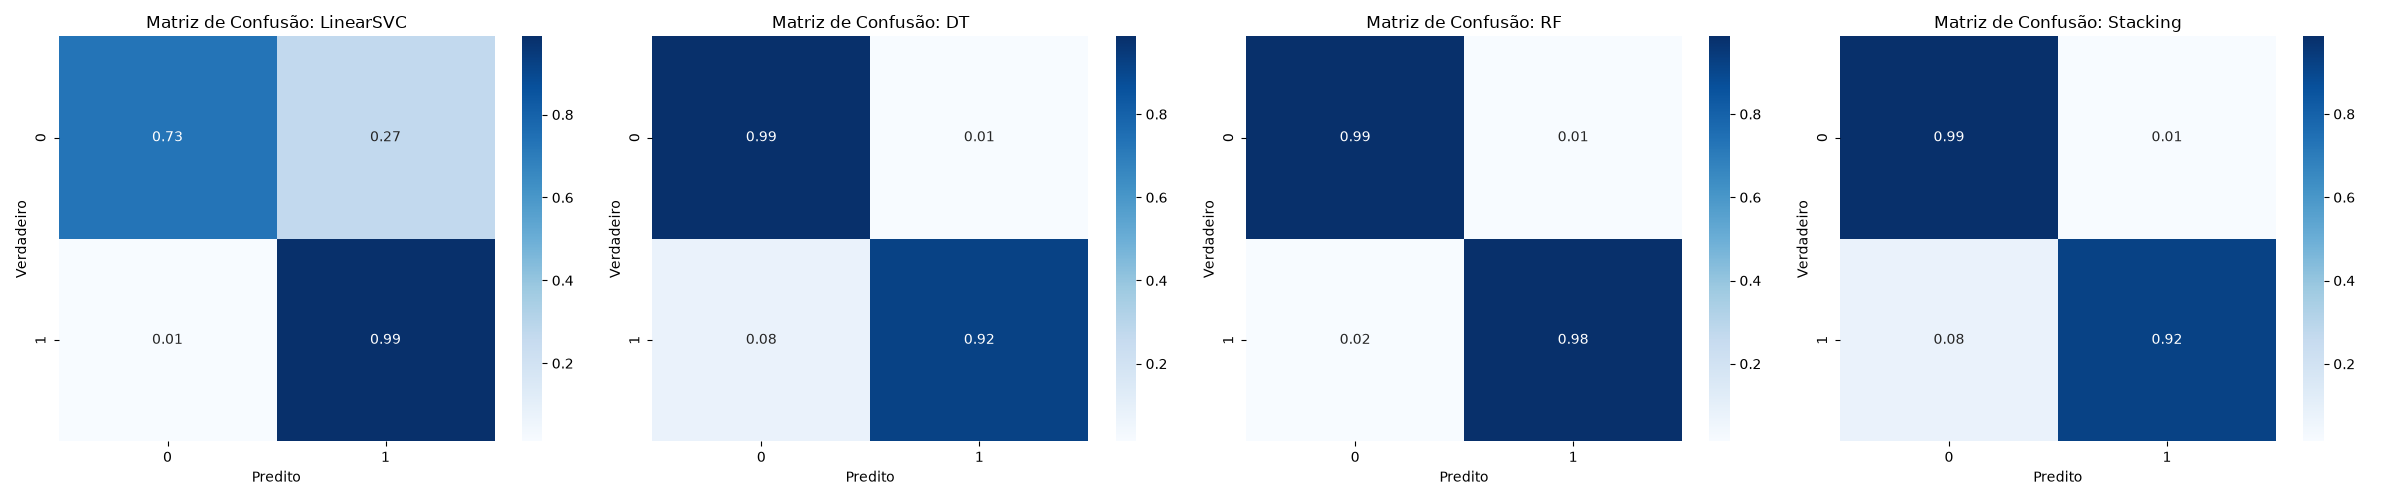
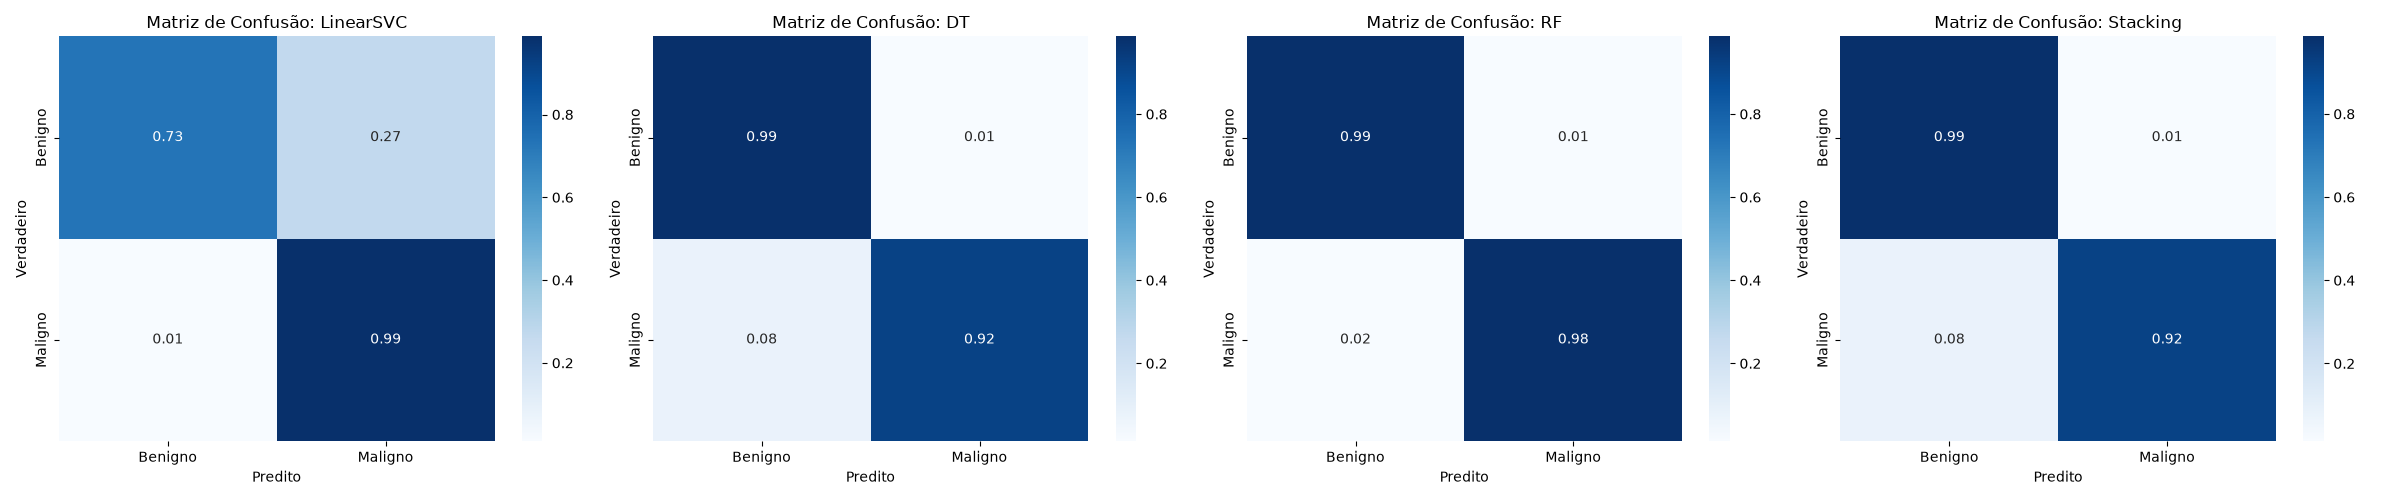
docs: adicionar dicionário de colunas ao README e atualizar rótulos da matriz de confusão binária

diff --git a/src/evaluation.py b/src/evaluation.py
@@ -126,6 +126,12 @@ def plot_confusion_matrices(y_true, predictions, classes, save_path):
     models = list(predictions.keys())
     n_models = len(models)
     
+    # Se os rótulos forem 0 e 1 (classificação binária), substitui pelos nomes das categorias
+    if len(classes) == 2 and set(classes) == {0, 1}:
+        display_classes = ['Benigno', 'Maligno']
+    else:
+        display_classes = classes
+    
     fig, axes = plt.subplots(1, n_models, figsize=(6 * n_models, 5))
     
     # Se houver apenas 1 modelo, axes não é um array, então colocamos numa lista
@@ -135,7 +141,7 @@ def plot_confusion_matrices(y_true, predictions, classes, save_path):
     for i, model in enumerate(models):
         cm = confusion_matrix(y_true, predictions[model], normalize='true')
         sns.heatmap(cm, annot=True, fmt='.2f', cmap='Blues', ax=axes[i], 
-                    xticklabels=classes, yticklabels=classes)
+                    xticklabels=display_classes, yticklabels=display_classes)
         axes[i].set_title(f'Matriz de Confusão: {model}')
         axes[i].set_xlabel('Predito')
         axes[i].set_ylabel('Verdadeiro')

diff --git a/README.md b/README.md
@@ -2,15 +2,15 @@
 
 Este projeto consiste em um Sistema de Detecção de Intrusão Baseado em Anomalias e Assinaturas (**AIDS - Anomaly-based Intrusion Detection System**). O objetivo principal é classificar pacotes e fluxos de tráfego de rede entre **Maligno** (ataques como DoS/DDoS, Port Scan, Botnet, Brute Force, etc.) e **Benigno** (tráfego legítimo de rede).
 
-A solução emprega um algoritmo de **Stacking Ensemble (Aprendizado em Camadas)**, combinando as capacidades complementares do **LinearSVC** (alta velocidade linear) e do **Random Forest** (robustez a ruídos), utilizando uma **Regressão Logística** como meta-classificador.
+A solução emprega um algoritmo de **Stacking Ensemble (Aprendizado em Camadas)**, combinando as capacidades complementares do **LinearSVC** (alta velocidade linear) e do **Decision Tree (DT)** (captura de regras não-lineares), utilizando uma **Regressão Logística** como meta-classificador.
 
 ## 🚀 Estrutura do Projeto
 
 ```text
 AIDS_alternativo/
 ├── data/
-│   └── CICFlowMeter_out.csv    # Dataset principal de tráfego
-├── models/                     # Diretório onde os modelos (.joblib) serão salvos
+│   └── CICFlowMeter_out.csv    # Dataset principal de tráfego (84 colunas)
+├── models/                     # Diretório onde os modelos (.joblib) são salvos
 ├── results/                    # Gráficos de avaliação salvos após os testes
 ├── specs/                      # Especificações e arquitetura do projeto
 ├── src/                        # Código-fonte principal da pipeline
@@ -53,6 +53,7 @@ Abra o arquivo `.env` para ligar ou desligar os algoritmos e modos de teste dese
 ```env
 # Quais modelos base treinar?
 TRAIN_LINEARSVC=True
+TRAIN_DT=True
 TRAIN_RF=True
 
 # Treinar o Stacking Ensemble?
@@ -60,10 +61,10 @@ TRAIN_STACKING=True
 
 # Modos de Treinamento a executar no main.py
 RUN_BINARY=True
-RUN_MULTICLASS=True
+RUN_MULTICLASS=False
 
-# Fração de amostragem do dataset (0.1 = 10% - Útil para desenvolvimento rápido no dataset massivo)
-SAMPLE_FRAC=0.1
+# Fração de amostragem do dataset (0.01 = 1%, 0.1 = 10%, 1.0 = 100%)
+SAMPLE_FRAC=0.01
 ```
 
 ## ▶ Executando a Pipeline
@@ -86,5 +87,154 @@ O script realizará automaticamente:
 Para cada modo ativado (Binário ou Multiclasse), as seguintes imagens `.png` são automaticamente construídas com `matplotlib` e `seaborn` na pasta `./results/`:
 - `metrics_comparison_*.png`: Gráfico de barras comparando a Eficiência (*Acurácia, F1-Score, Precisão, Recall*) dos algoritmos base contra o Stacking.
 - `roc_curves_*.png`: Comparativo de Taxas Verdadeiros vs Falsos Positivos via *Curva ROC*.
-- `confusion_matrices_*.png`: Matrizes de Confusão em grade demonstrando os índices absolutos (normalizados de 0 a 1).
+- `confusion_matrices_*.png`: Matrizes de Confusão com rótulos explícitos das categorias (`Benigno` vs `Maligno`).
 - `latency_vs_f1_*.png`: Relatório do Trade-off computacional, mostrando velocidade de predição *versus* Qualidade Analítica (*F1-Score*).
+- `svm_feature_weights_*.png`: Gráfico de importância dos coeficientes (pesos) do modelo LinearSVC.
+
+---
+
+## 📑 Dicionário de Colunas e Atributos do Dataset (CICFlowMeter)
+
+O dataset gerado pela ferramenta **CICFlowMeter** extrai 84 métricas estatísticas e temporais a partir de capturas de pacotes de rede (PCAP). A tabela abaixo detalha o significado e a função de cada coluna:
+
+### 1. Identificadores e Metadados do Fluxo
+| Coluna | Descrição / Significado |
+| :--- | :--- |
+| `Flow ID` | Identificador único da conexão/fluxo no formato `IP_Origem-IP_Destino-Porta_Origem-Porta_Destino-Protocolo`. |
+| `Src IP` | Endereço IP da máquina de origem (remetente). |
+| `Src Port` | Porta lógica de origem (TCP/UDP). |
+| `Dst IP` | Endereço IP da máquina de destino (destinatário). |
+| `Dst Port` | Porta lógica de destino (ex: 80 para HTTP, 443 para HTTPS, 22 para SSH). |
+| `Protocol` | Número do protocolo de transporte IP (ex: 6 para TCP, 17 para UDP). |
+| `Timestamp` | Data e horário em que o fluxo foi registrado. |
+
+---
+
+### 2. Métricas Temporais e Duração do Fluxo
+| Coluna | Descrição / Significado |
+| :--- | :--- |
+| `Flow Duration` | Duração total do fluxo (em microssegundos, µs). |
+| `Flow IAT Mean` | Média do tempo entre a chegada de dois pacotes consecutivos no fluxo (*Inter-Arrival Time*). |
+| `Flow IAT Std` | Desvio padrão do tempo entre chegada de pacotes no fluxo. |
+| `Flow IAT Max` | Maior intervalo de tempo observado entre dois pacotes consecutivos no fluxo. |
+| `Flow IAT Min` | Menor intervalo de tempo observado entre dois pacotes consecutivos no fluxo. |
+| `Fwd IAT Total` | Tempo total decorrido entre o primeiro e o último pacote enviado na direção direta (*Forward*). |
+| `Fwd IAT Mean` | Média do tempo entre chegadas de pacotes na direção direta (*Forward*). |
+| `Fwd IAT Std` | Desvio padrão do tempo entre chegadas de pacotes na direção direta. |
+| `Fwd IAT Max` | Maior intervalo de tempo entre pacotes na direção direta. |
+| `Fwd IAT Min` | Menor intervalo de tempo entre pacotes na direção direta. |
+| `Bwd IAT Total` | Tempo total decorrido entre o primeiro e o último pacote recebido na direção reversa (*Backward*). |
+| `Bwd IAT Mean` | Média do tempo entre chegadas de pacotes na direção reversa (*Backward*). |
+| `Bwd IAT Std` | Desvio padrão do tempo entre chegadas de pacotes na direção reversa. |
+| `Bwd IAT Max` | Maior intervalo de tempo entre pacotes na direção reversa. |
+| `Bwd IAT Min` | Menor intervalo de tempo entre pacotes na direção reversa. |
+
+---
+
+### 3. Contagem e Tamanhos de Pacotes (Volumes e Estatísticas)
+| Coluna | Descrição / Significado |
+| :--- | :--- |
+| `Total Fwd Packet` | Número total de pacotes transmitidos na direção direta (*Forward*). |
+| `Total Bwd packets` | Número total de pacotes recebidos na direção reversa (*Backward*). |
+| `Total Length of Fwd Packet` | Volume total de dados (em bytes) transmitidos na direção direta. |
+| `Total Length of Bwd Packet` | Volume total de dados (em bytes) recebidos na direção reversa. |
+| `Fwd Packet Length Max` | Maior tamanho de pacote (em bytes) observado na direção direta. |
+| `Fwd Packet Length Min` | Menor tamanho de pacote (em bytes) observado na direção direta. |
+| `Fwd Packet Length Mean` | Tamanho médio dos pacotes na direção direta. |
+| `Fwd Packet Length Std` | Desvio padrão dos tamanhos dos pacotes na direção direta. |
+| `Bwd Packet Length Max` | Maior tamanho de pacote (em bytes) observado na direção reversa. |
+| `Bwd Packet Length Min` | Menor tamanho de pacote (em bytes) observado na direção reversa. |
+| `Bwd Packet Length Mean` | Tamanho médio dos pacotes na direção reversa. |
+| `Bwd Packet Length Std` | Desvio padrão dos tamanhos dos pacotes na direção reversa. |
+| `Packet Length Min` | Menor tamanho de pacote (em bytes) registrado em todo o fluxo. |
+| `Packet Length Max` | Maior tamanho de pacote (em bytes) registrado em todo o fluxo. |
+| `Packet Length Mean` | Tamanho médio geral dos pacotes no fluxo. |
+| `Packet Length Std` | Desvio padrão do tamanho dos pacotes no fluxo. |
+| `Packet Length Variance` | Variância do tamanho dos pacotes no fluxo. |
+| `Average Packet Size` | Tamanho médio absoluto por pacote no fluxo. |
+| `Fwd Segment Size Avg` | Tamanho médio de segmento de dados por pacote no sentido direto. |
+| `Bwd Segment Size Avg` | Tamanho médio de segmento de dados por pacote no sentido reverso. |
+| `Fwd Seg Size Min` | Tamanho mínimo do cabeçalho/segmento TCP na direção direta. |
+
+---
+
+### 4. Taxas e Vazão de Transferência
+| Coluna | Descrição / Significado |
+| :--- | :--- |
+| `Flow Bytes/s` | Vazão de dados do fluxo em bytes por segundo (Bytes/s). |
+| `Flow Packets/s` | Taxa de transmissão de pacotes por segundo no fluxo (Pacotes/s). |
+| `Fwd Packets/s` | Taxa de pacotes por segundo enviados na direção direta. |
+| `Bwd Packets/s` | Taxa de pacotes por segundo recebidos na direção reversa. |
+| `Down/Up Ratio` | Razão de proporção entre pacotes de download (*Backward*) e upload (*Forward*). |
+
+---
+
+### 5. Flags de Controle do Cabeçalho TCP
+| Coluna | Descrição / Significado |
+| :--- | :--- |
+| `Fwd PSH Flags` | Número de vezes que a flag PSH (Push) foi ativada na direção direta. |
+| `Bwd PSH Flags` | Número de vezes que a flag PSH foi ativada na direção reversa. |
+| `Fwd URG Flags` | Número de vezes que a flag URG (Urgent) foi ativada na direção direta. |
+| `Bwd URG Flags` | Número de vezes que a flag URG foi ativada na direção reversa. |
+| `FIN Flag Count` | Contagem total de pacotes com a flag FIN (Finalização de conexão). |
+| `SYN Flag Count` | Contagem total de pacotes com a flag SYN (Solicitação de abertura de conexão). |
+| `RST Flag Count` | Contagem total de pacotes com a flag RST (Redefinição/Resetação de conexão). |
+| `PSH Flag Count` | Contagem total de pacotes com a flag PSH (Envio imediato sem buffer). |
+| `ACK Flag Count` | Contagem total de pacotes com a flag ACK (Confirmação de recebimento). |
+| `URG Flag Count` | Contagem total de pacotes com a flag URG (Dados urgentes). |
+| `CWR Flag Count` | Contagem total de pacotes com a flag CWR (*Congestion Window Reduced*). |
+| `ECE Flag Count` | Contagem total de pacotes com a flag ECE (*ECN-Echo* - Notificação de congestionamento). |
+
+---
+
+### 6. Tamanhos de Cabeçalho e Janela TCP
+| Coluna | Descrição / Significado |
+| :--- | :--- |
+| `Fwd Header Length` | Tamanho total acumulado (em bytes) dos cabeçalhos dos pacotes na direção direta. |
+| `Bwd Header Length` | Tamanho total acumulado (em bytes) dos cabeçalhos dos pacotes na direção reversa. |
+| `FWD Init Win Bytes` | Tamanho inicial da janela TCP oferecida no primeiro pacote na direção direta. |
+| `Bwd Init Win Bytes` | Tamanho inicial da janela TCP oferecida no primeiro pacote na direção reversa. |
+| `Fwd Act Data Pkts` | Quantidade de pacotes enviados na direção direta contendo pelo menos 1 byte de carga útil (*payload*). |
+
+---
+
+### 7. Métricas de Transferência em Lote (Bulk Metrics)
+| Coluna | Descrição / Significado |
+| :--- | :--- |
+| `Fwd Bytes/Bulk Avg` | Média de bytes por rajada de transferência em lote na direção direta. |
+| `Fwd Packet/Bulk Avg` | Média de pacotes por rajada de transferência em lote na direção direta. |
+| `Fwd Bulk Rate Avg` | Taxa média de transferência durante rajadas de lote na direção direta. |
+| `Bwd Bytes/Bulk Avg` | Média de bytes por rajada de transferência em lote na direção reversa. |
+| `Bwd Packet/Bulk Avg` | Média de pacotes por rajada de transferência em lote na direção reversa. |
+| `Bwd Bulk Rate Avg` | Taxa média de transferência durante rajadas de lote na direção reversa. |
+
+---
+
+### 8. Métricas de Subfluxos (Subflows)
+| Coluna | Descrição / Significado |
+| :--- | :--- |
+| `Subflow Fwd Packets` | Número médio de pacotes por subfluxo na direção direta. |
+| `Subflow Fwd Bytes` | Número médio de bytes por subfluxo na direção direta. |
+| `Subflow Bwd Packets` | Número médio de pacotes por subfluxo na direção reversa. |
+| `Subflow Bwd Bytes` | Número médio de bytes por subfluxo na direção reversa. |
+
+---
+
+### 9. Métricas de Atividade e Inatividade (Active / Idle Times)
+| Coluna | Descrição / Significado |
+| :--- | :--- |
+| `Active Mean` | Tempo médio em que o fluxo permaneceu ativo transmitindo pacotes antes de entrar em repouso. |
+| `Active Std` | Desvio padrão do tempo de atividade do fluxo. |
+| `Active Max` | Tempo máximo contínuo em que o fluxo permaneceu ativo. |
+| `Active Min` | Tempo mínimo em que o fluxo permaneceu ativo. |
+| `Idle Mean` | Tempo médio em que o fluxo permaneceu inativo (ocioso) sem enviar dados. |
+| `Idle Std` | Desvio padrão do tempo de ociosidade do fluxo. |
+| `Idle Max` | Tempo máximo em que o fluxo permaneceu ocioso. |
+| `Idle Min` | Tempo mínimo em que o fluxo permaneceu ocioso. |
+
+---
+
+### 10. Classe Alvo (Target Label)
+| Coluna | Descrição / Significado |
+| :--- | :--- |
+| `Label` | Categoria de tráfego. No modo **Binário**, valores diferentes de `BENIGN` são mapeados para `1` (**Maligno/Ataque**) e `BENIGN` para `0` (**Benigno**). No modo **Multiclasse**, preserva o nome do ataque original (ex: `DoS Hulk`, `PortScan`, `DDoS`, `Bot`, `FTP-Patator`, `SSH-Patator`, `DoSSlowloris`, etc.). |
